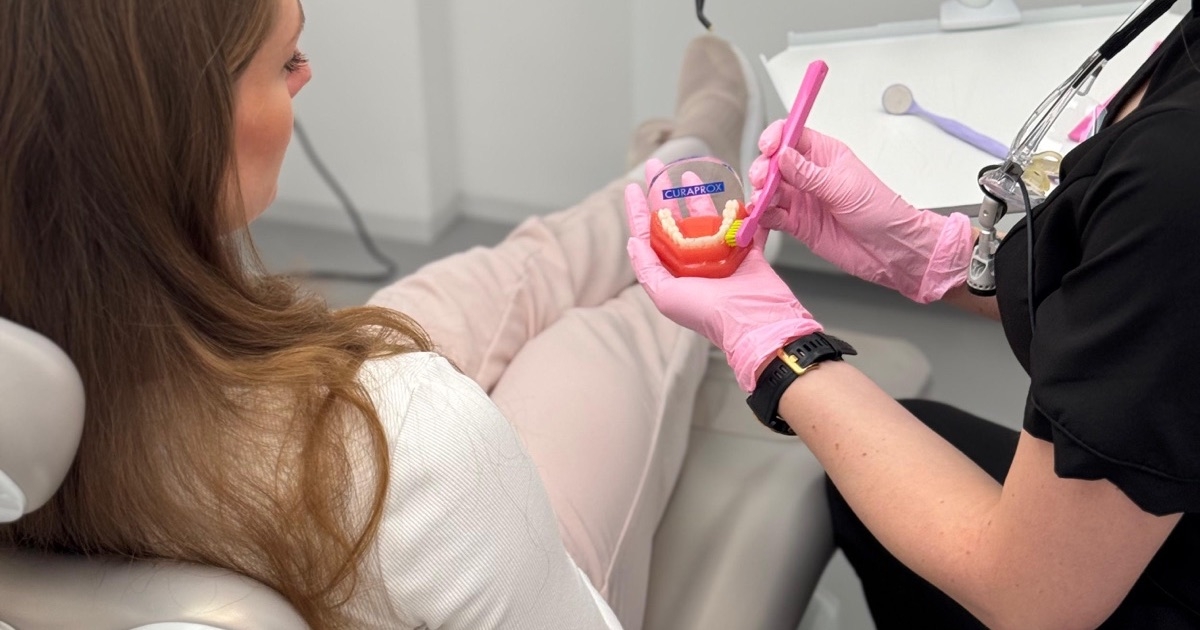
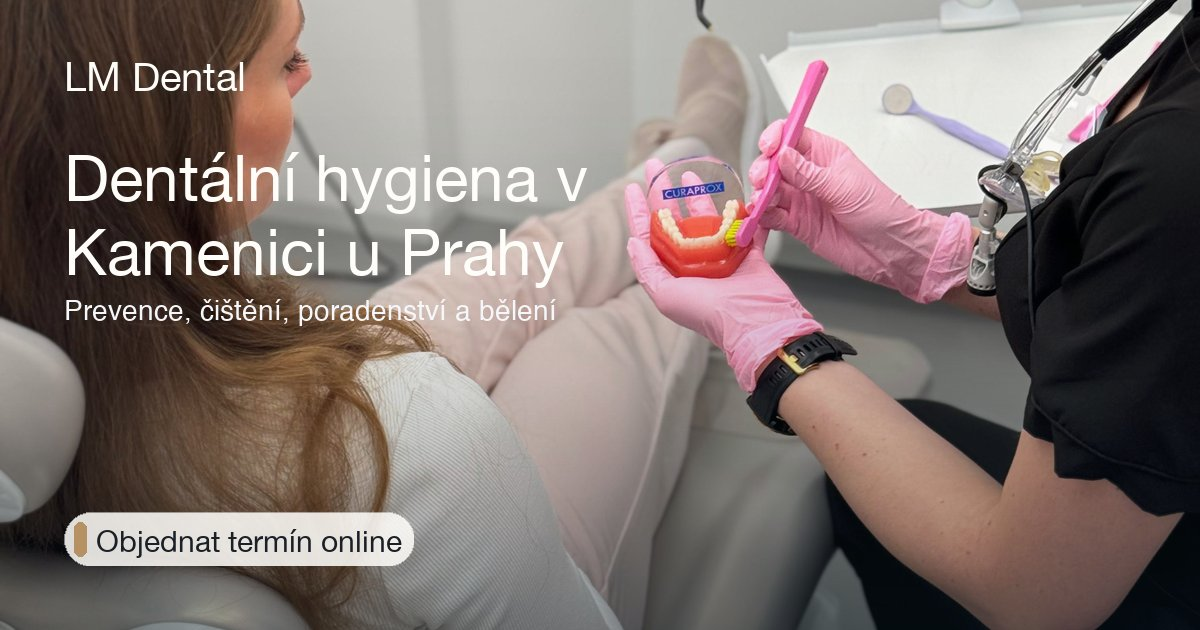
Úpravy index.html, og-image a FAQ

diff --git a/index.html b/index.html
@@ -18,7 +18,7 @@
 	  <meta property="og:type" content="website" />
 	  <meta property="og:site_name" content="LM Dental" />
 	  <meta property="og:locale" content="cs_CZ" />
-	  <meta property="og:title" content="LM Dental | Dentální hygiena Kamenice u Prahy" />
+	  <meta property="og:title" content="LM Dental | Dentální hygiena v Kamenici u Prahy a okolí" />
 	  <meta property="og:logo" content="https://lmdental.cz/logo.png" />
 	  <meta
 	    property="og:description"
@@ -26,6 +26,7 @@
 	  />
 	  <meta property="og:image" content="https://lmdental.cz/og-image.jpg" />
 	  <meta property="og:image:secure_url" content="https://lmdental.cz/og-image.jpg" />
+	  <meta property="og:image:type" content="image/jpeg" />
 	  <meta property="og:image:width" content="1200" />
 	  <meta property="og:image:height" content="630" />
 	  <meta property="og:image:alt" content="LM Dental – dentální hygiena" />
@@ -37,12 +38,97 @@
 
   <link rel="preconnect" href="https://fonts.googleapis.com" />
   <link rel="preconnect" href="https://fonts.gstatic.com" crossorigin />
-  <link
-    rel="stylesheet"
-    href="https://fonts.googleapis.com/css2?family=Outfit:wght@500;600;700&family=Manrope:wght@300;400;500;600;700&display=swap"
-  />
-  <title>LM Dental | Dentální hygiena Kamenice u Prahy</title>
-</head>
+	  <link
+	    rel="stylesheet"
+	    href="https://fonts.googleapis.com/css2?family=Outfit:wght@500;600;700&family=Manrope:wght@300;400;500;600;700&display=swap"
+	  />
+	  <script type="application/ld+json">
+	    {
+	      "@context": "https://schema.org",
+	      "@graph": [
+	        {
+	          "@type": "WebSite",
+	          "@id": "https://lmdental.cz/#website",
+	          "url": "https://lmdental.cz/",
+	          "name": "LM Dental",
+	          "inLanguage": "cs-CZ"
+	        },
+	        {
+	          "@type": "WebPage",
+	          "@id": "https://lmdental.cz/#webpage",
+	          "url": "https://lmdental.cz/",
+	          "name": "LM Dental | Dentální hygiena v Kamenici u Prahy a okolí",
+	          "isPartOf": { "@id": "https://lmdental.cz/#website" },
+	          "about": { "@id": "https://lmdental.cz/#business" },
+	          "primaryImageOfPage": { "@id": "https://lmdental.cz/#ogimage" },
+	          "inLanguage": "cs-CZ"
+	        },
+	        {
+	          "@type": "ImageObject",
+	          "@id": "https://lmdental.cz/#ogimage",
+	          "url": "https://lmdental.cz/og-image.jpg",
+	          "contentUrl": "https://lmdental.cz/og-image.jpg",
+	          "width": 1200,
+	          "height": 630
+	        },
+	        {
+	          "@type": ["Dentist", "LocalBusiness"],
+	          "@id": "https://lmdental.cz/#business",
+	          "name": "LM Dental",
+	          "url": "https://lmdental.cz/",
+	          "description": "Dentální hygiena v Kamenici u Prahy. Šetrné čištění, prevence, poradenství a bělení zubů. Objednání termínu online.",
+	          "image": "https://lmdental.cz/og-image.jpg",
+	          "logo": "https://lmdental.cz/logo.png",
+	          "email": "info@lmdental.cz",
+	          "address": {
+	            "@type": "PostalAddress",
+	            "streetAddress": "Ringhofferova 422",
+	            "postalCode": "251 68",
+	            "addressLocality": "Kamenice",
+	            "addressCountry": "CZ"
+	          },
+	          "openingHoursSpecification": [
+	            {
+	              "@type": "OpeningHoursSpecification",
+	              "dayOfWeek": [
+	                "Monday",
+	                "Tuesday",
+	                "Wednesday",
+	                "Thursday",
+	                "Friday"
+	              ],
+	              "opens": "08:00",
+	              "closes": "14:00"
+	            }
+	          ],
+	          "sameAs": [
+	            "https://www.instagram.com/lmdental_/",
+	            "https://www.facebook.com/profile.php?id=61587033856891"
+	          ],
+	          "founder": {
+	            "@type": "Person",
+	            "name": "Markéta Lesinová"
+	          },
+	          "makesOffer": [
+	            {
+	              "@type": "Offer",
+	              "itemOffered": { "@type": "Service", "name": "Dentální hygiena" }
+	            },
+	            {
+	              "@type": "Offer",
+	              "itemOffered": { "@type": "Service", "name": "Konzultace a poradenství" }
+	            },
+	            {
+	              "@type": "Offer",
+	              "itemOffered": { "@type": "Service", "name": "Bělení zubů" }
+	            }
+	          ]
+	        }
+	      ]
+	    }
+	  </script>
+	  <title>LM Dental | Dentální hygiena v Kamenici u Prahy a okolí</title>
+	</head>
 
 <body>
   <div id="root"></div>

diff --git a/src/components/Faq.jsx b/src/components/Faq.jsx
@@ -29,6 +29,11 @@ const faqData = [
     question: 'Přispívá na dentální hygienu pojišťovna?',
     answer:
       'Většina zdravotních pojišťoven nabízí příspěvky v rámci preventivních programů. Konkrétní výši je potřeba ověřit u vaší pojišťovny.'
+  },
+  {
+    question: 'Kdy je lepší hygienu zrušit?',
+    answer:
+      'Prosíme o zrušení termínu v případě oparu či nemoci z důvodu bezpečnosti Vás, ostatních pacientů i dentálního týmu.'
   }
 ];
 
